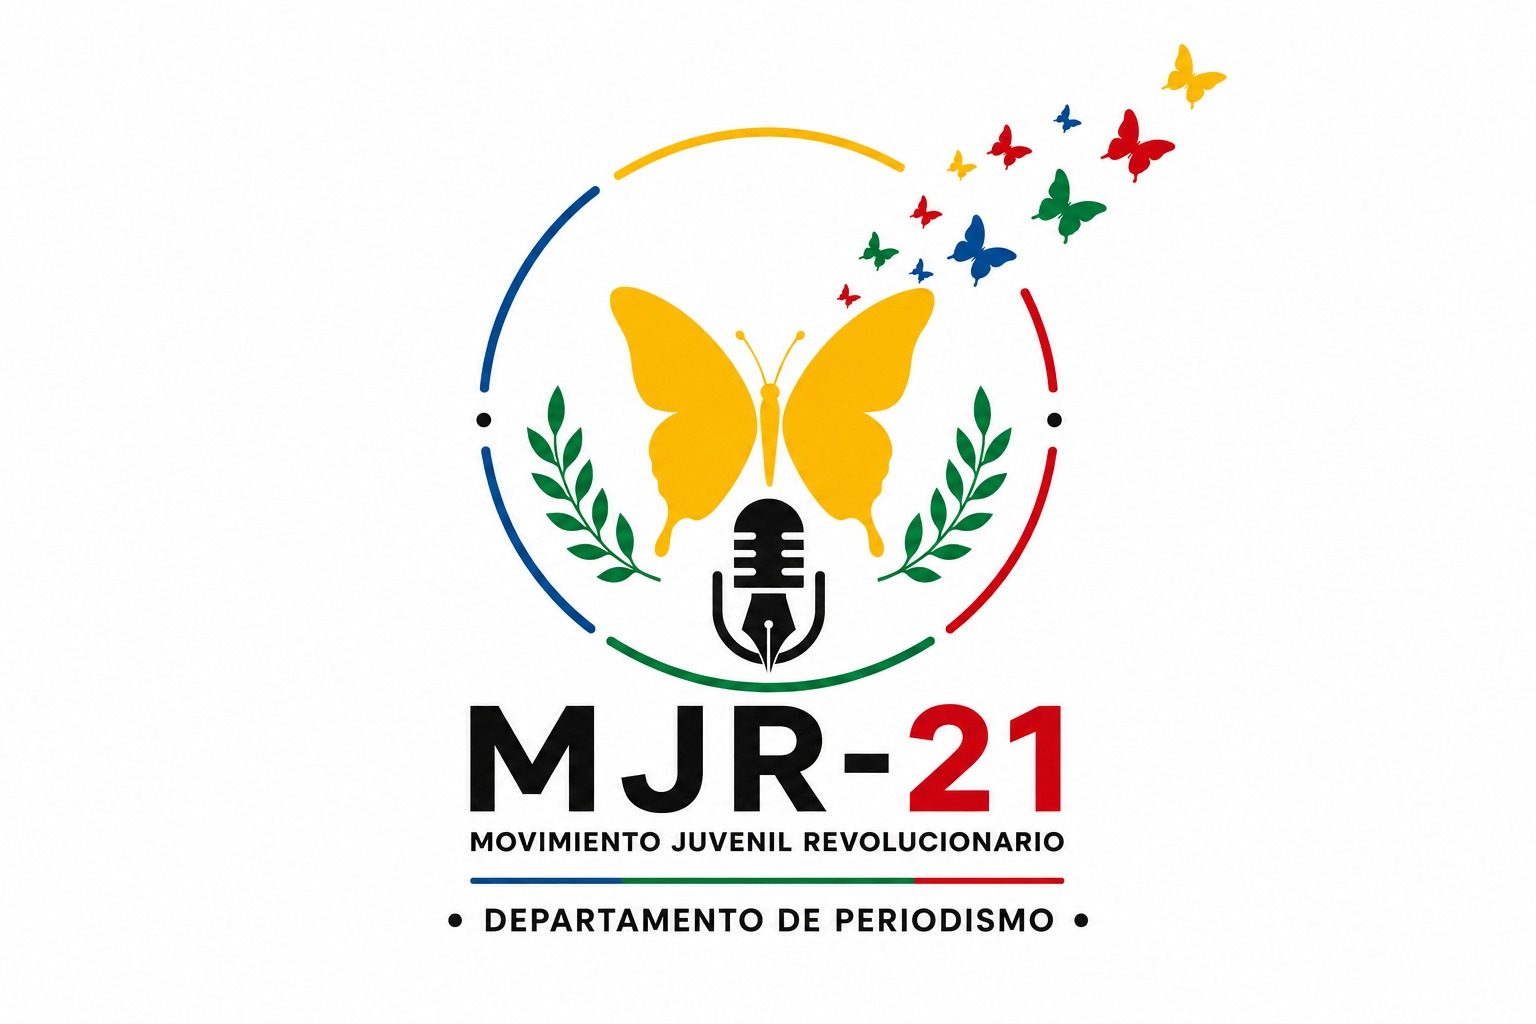
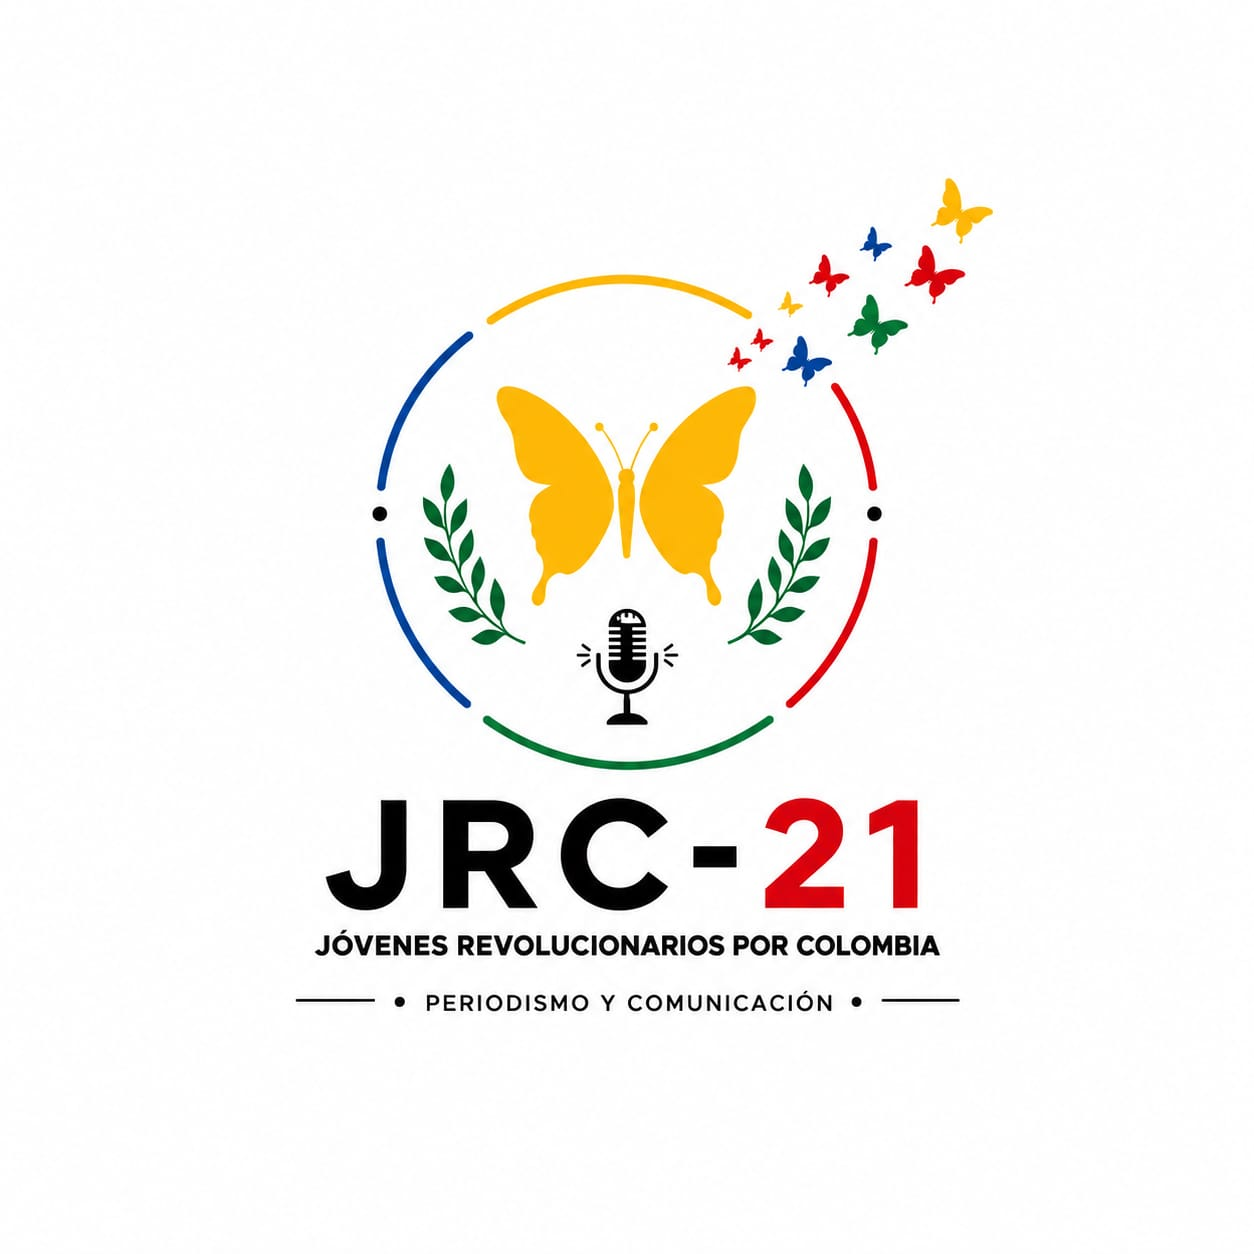
Cambio de nombre MJR -> JRC

diff --git a/index.html b/index.html
@@ -3,7 +3,7 @@
 <head>
 <meta charset="UTF-8">
 <meta name="viewport" content="width=device-width, initial-scale=1.0">
-<title>Noticias MJR-21</title>
+<title>Noticias JRC-21</title>
 <link rel="preconnect" href="https://fonts.googleapis.com">
 <link rel="preconnect" href="https://fonts.gstatic.com" crossorigin>
 <link href="https://fonts.googleapis.com/css2?family=Oswald:wght@500;600;700&family=Source+Serif+4:ital,opsz,wght@0,8..60,400;0,8..60,600;1,8..60,400&display=swap" rel="stylesheet">
@@ -16,7 +16,7 @@
   <div class="header-inner">
     <a href="/" class="brand">
       <img src="/img/logo.png" alt="" class="brand-logo">
-      <span class="brand-text">MJR<span class="brand-dash">-21</span></span>
+      <span class="brand-text">JRC<span class="brand-dash">-21</span></span>
       <span class="brand-sub">Noticias</span>
     </a>
     <nav class="main-nav">
@@ -29,13 +29,13 @@
 <main class="container">
   <section class="featured">
     
-    <a href="/articulos/2026-06-27-bienvenida-periodico-mjr21/" class="featured-card">
-      <img src="/img/articulos/2026-06-27-bienvenida-periodico-mjr21/portada.webp" alt="Nace el periódico del MJR-21">
+    <a href="/articulos/2026-06-27-bienvenida-periodico-jrc21/" class="featured-card">
+      <img src="/img/articulos/2026-06-27-bienvenida-periodico-jrc21/portada.webp" alt="Nace el periódico del JRC-21">
       <div class="featured-body">
         <span class="tag-pill">Comunicados</span>
-        <h2>Nace el periódico del MJR-21</h2>
+        <h2>Nace el periódico del JRC-21</h2>
         <p>El movimiento estrena su propio espacio informativo, pensado para narrar sus procesos con transparencia y rigor.</p>
-        <span class="news-card-meta">Equipo Editorial MJR-21 · 2026-06-27</span>
+        <span class="news-card-meta">Equipo Editorial JRC-21 · 2026-06-27</span>
       </div>
     </a>
     
@@ -49,7 +49,7 @@
 </main>
 
 <footer class="news-footer">
-  <p>© 2026 MJR-21 — Por dignidad, por justicia, por nuestra Colombia.</p>
+  <p>© 2026 JRC-21 — Por dignidad, por justicia, por nuestra Colombia.</p>
 </footer>
 
 <script>